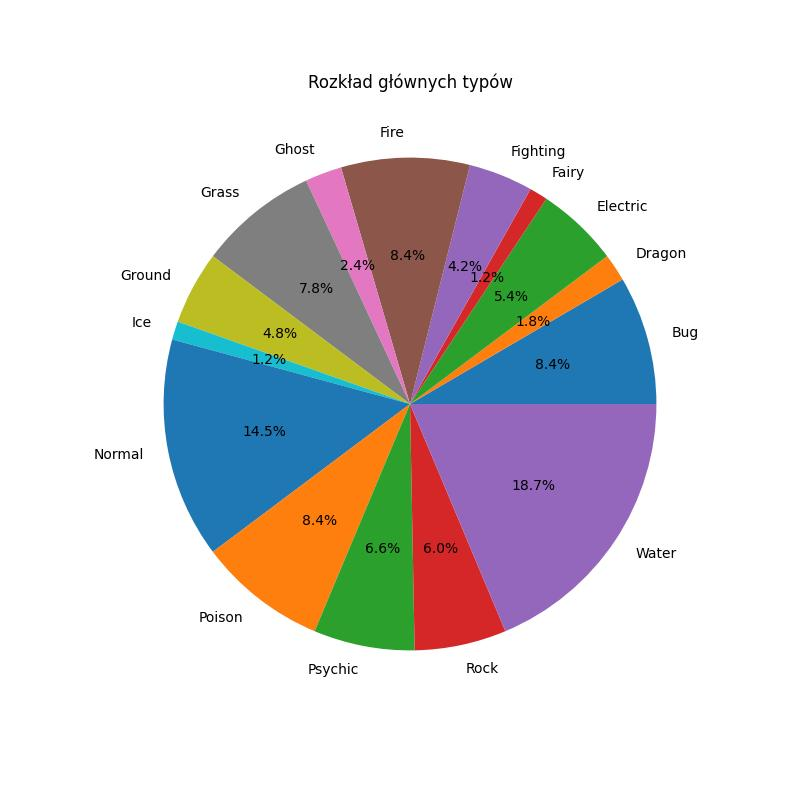
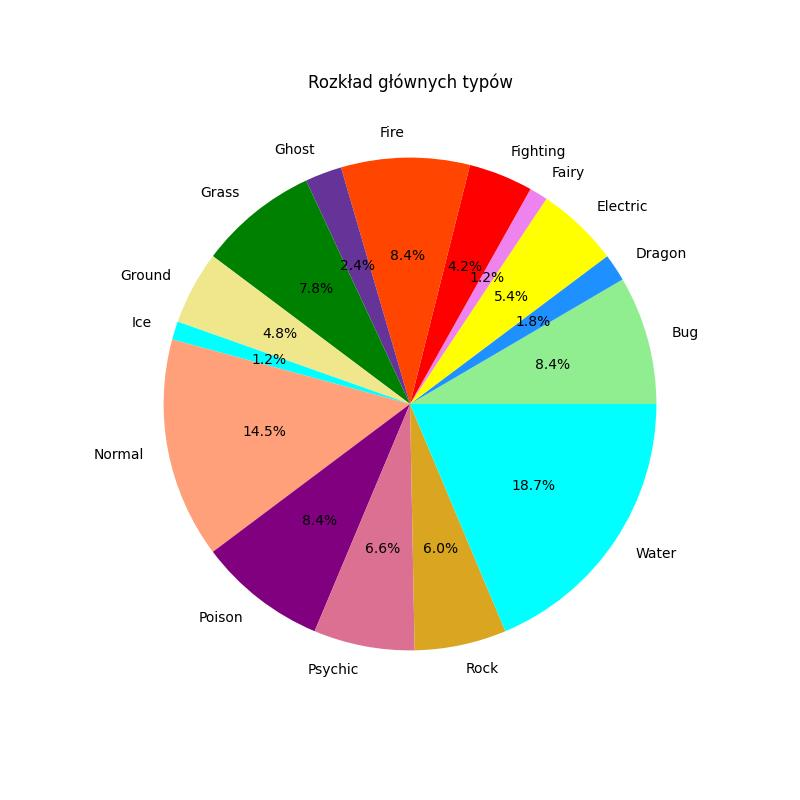
koniec cz1

Changed region(s): [[0.1875, 0.1875, 0.8438, 0.8125]]

diff --git a/cz1/wizualizacja.py b/cz1/wizualizacja.py
@@ -9,6 +9,7 @@ if not os.path.exists("./wykresy"):
 
 dane = pd.read_csv("./przetwarzanie_zamienbledne.csv")
 
+#wykresy rozkładu prawdopodobieństwa każdej z bojowych statystyk
 stats = ["HP","Attack","Defense","Sp. Atk", "Sp. Def", "Speed"]
 for stat in stats:
 	dane[stat].plot.kde()
@@ -17,7 +18,8 @@ for stat in stats:
 	plt.title("Gęstość prawdopodobieństwa statystyki \""+ stat+"\"")
 	plt.savefig("./wykresy/"+stat+".jpg")
 	plt.clf()
-	
+
+#wykres zależności ataku i specjalnego ataku od obrony
 dane_wykres = dane.sort_values(by=["Defense"])[["Attack","Defense","Sp. Atk"]].groupby(dane["Defense"]).median()
 plt.plot(dane_wykres["Defense"],dane_wykres["Sp. Atk"])
 plt.plot(dane_wykres["Defense"],dane_wykres["Attack"])
@@ -28,6 +30,7 @@ plt.title("Wykres zależności ataku od fizycznej obrony")
 plt.savefig("./wykresy/atk_od_obrony.jpg")
 plt.clf()
 
+#wykres zależności specjalnego ataku od fizycznego ataku
 dane_wykres = dane.sort_values(by=["Attack"])[["Sp. Atk","Attack"]].groupby(dane["Attack"]).median()
 plt.plot(dane_wykres["Attack"],dane_wykres["Sp. Atk"])
 plt.xlabel("Atak fizyczny")
@@ -36,13 +39,23 @@ plt.title("Wykres zależności ataku fizycznego od ataku specjalnego")
 plt.savefig("./wykresy/atk_od_spatk.jpg")
 plt.clf()
 
+colors = {"Fire" : "orangered", "Water" : "aqua", "Grass" : "green", "Normal" : "lightsalmon", "Electric" : "yellow", "Bug" : "lightgreen", "Fighting" : "red", "Ground" : "khaki", "Rock" : "goldenrod", "Steel" : "silver", "Poison" : "purple", "Psychic" : "palevioletred", "Ghost" : "rebeccapurple", "Dark" : "darkslategray", "Ice" : "cyan", "Dragon" : "dodgerblue", "Fairy" : "violet", "Flying" : "azure"}
+
+#wykres kołowy rozkładu głównych typów
 dane_wykres = dane[["Type 1", "#"]].groupby(dane["Type 1"]).count()
-plt.pie(dane_wykres["#"], labels=dane_wykres.index, autopct="%1.1f%%")
+plt.pie(dane_wykres["#"], labels=dane_wykres.index, autopct="%1.1f%%", colors=[colors[key] for key in dane_wykres.index])
 plt.gcf().set_size_inches(8, 8)
 plt.title("Rozkład głównych typów")
 plt.savefig("./wykresy/rozklad_glownych_typow.jpg")
 plt.clf()
-
+#wykres kołowy rozkładu drugorzędnych typów
+dane_wykres = dane[["Type 2", "#"]].groupby(dane["Type 2"]).count()
+plt.pie(dane_wykres["#"], labels=dane_wykres.index, autopct="%1.1f%%", colors=[colors[key] for key in dane_wykres.index])
+plt.gcf().set_size_inches(8, 8)
+plt.title("Rozkład drugorzędnych typów")
+plt.savefig("./wykresy/rozklad_drugorzednych_typow.jpg")
+plt.clf()
+#wykres kołowy rozkładu wszystkich typów
 typy1 = dane[["Type 1", "#"]]
 typy2 = dane[["Type 2", "#"]]
 typy2 = typy2[~(typy2["Type 2"].isna())]
@@ -50,28 +63,34 @@ typy2["Type 1"] = typy2["Type 2"]
 typy2.drop(labels=["Type 2"],axis=1)
 typy = pd.concat([typy1,typy2])
 typy = typy.groupby(typy["Type 1"]).count()
-plt.pie(typy["#"], labels=typy.index, autopct="%1.1f%%")
+plt.pie(typy["#"], labels=typy.index, autopct="%1.1f%%", colors=[colors[key] for key in typy.index])
 plt.gcf().set_size_inches(8,8)
 plt.title("Rozkład typów z uwzględnieniem drugorzędnych")
 plt.savefig("./wykresy/rozklad_typow.jpg")
 plt.clf()
 
-
+#wykres słupkowy liczbie pokemonów o jednym lub dwóch typach
 podwojne_typy = dane.dropna()
 pojedyncze_typy = dane[dane["Type 2"].isna()]
 n_podwojnych = len(podwojne_typy)
 n_pojedynczych = len(pojedyncze_typy)
-
 
 plt.bar(["Pojedyncze typy", "Podwójne typy"], [n_pojedynczych, n_podwojnych])
 plt.title("Liczba Pokemon'ów o pojedynczym i podwójnym typie")
 plt.savefig("./wykresy/liczba_pkmn_o_liczbie_typow.jpg")
 plt.clf()
 
+#wykres TSNE dla statystyk bojowych przyjmując za etykiety typ główny
 tsne = TSNE(n_components=2,).fit_transform(dane[["HP", "Attack", "Defense", "Sp. Atk", "Sp. Def", "Speed"]])
 tsne_df = pd.DataFrame({'tsne_1': tsne[:,0], 'tsne_2': tsne[:,1]})
-tsne_df['label'] = dane[["Type 1"]]
-print(tsne.shape)
-plt.scatter(x='tsne_1', y='tsne_2', c=np.random.rand(len(tsne_df.label.unique()),3), data=tsne_df)
-plt.show()
+tsne_df['type'] = dane[["Type 1"]]
+types = tsne_df.type.unique()
+for typ in types:
+	color = colors[typ]
+	dane_wykres = tsne_df[tsne_df["type"] == typ]
+	plt.scatter(x = dane_wykres[["tsne_1"]], y = dane_wykres[["tsne_2"]], c = color)
+plt.legend(types)
+plt.title("Wykres TSNE dla statystyk bojowych z etykietowaniem na podstawie głównego typu")
+plt.savefig("./wykresy/tsne.jpg")
+plt.clf()
 
